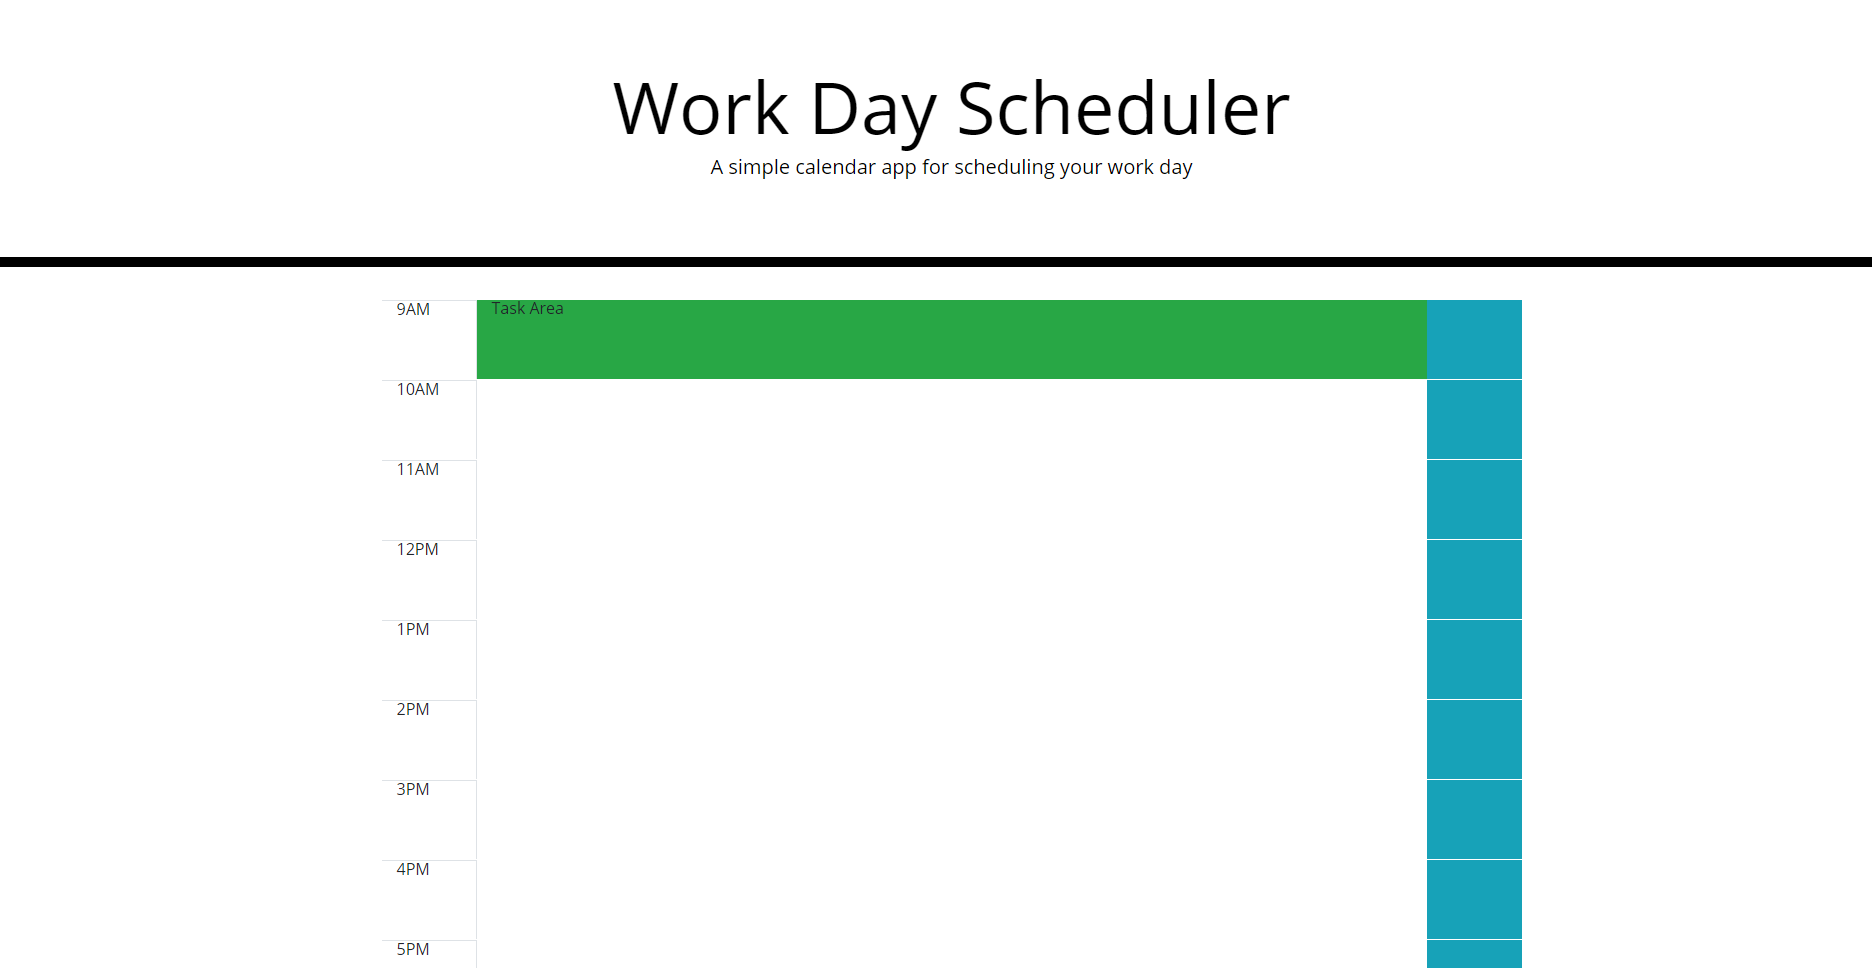
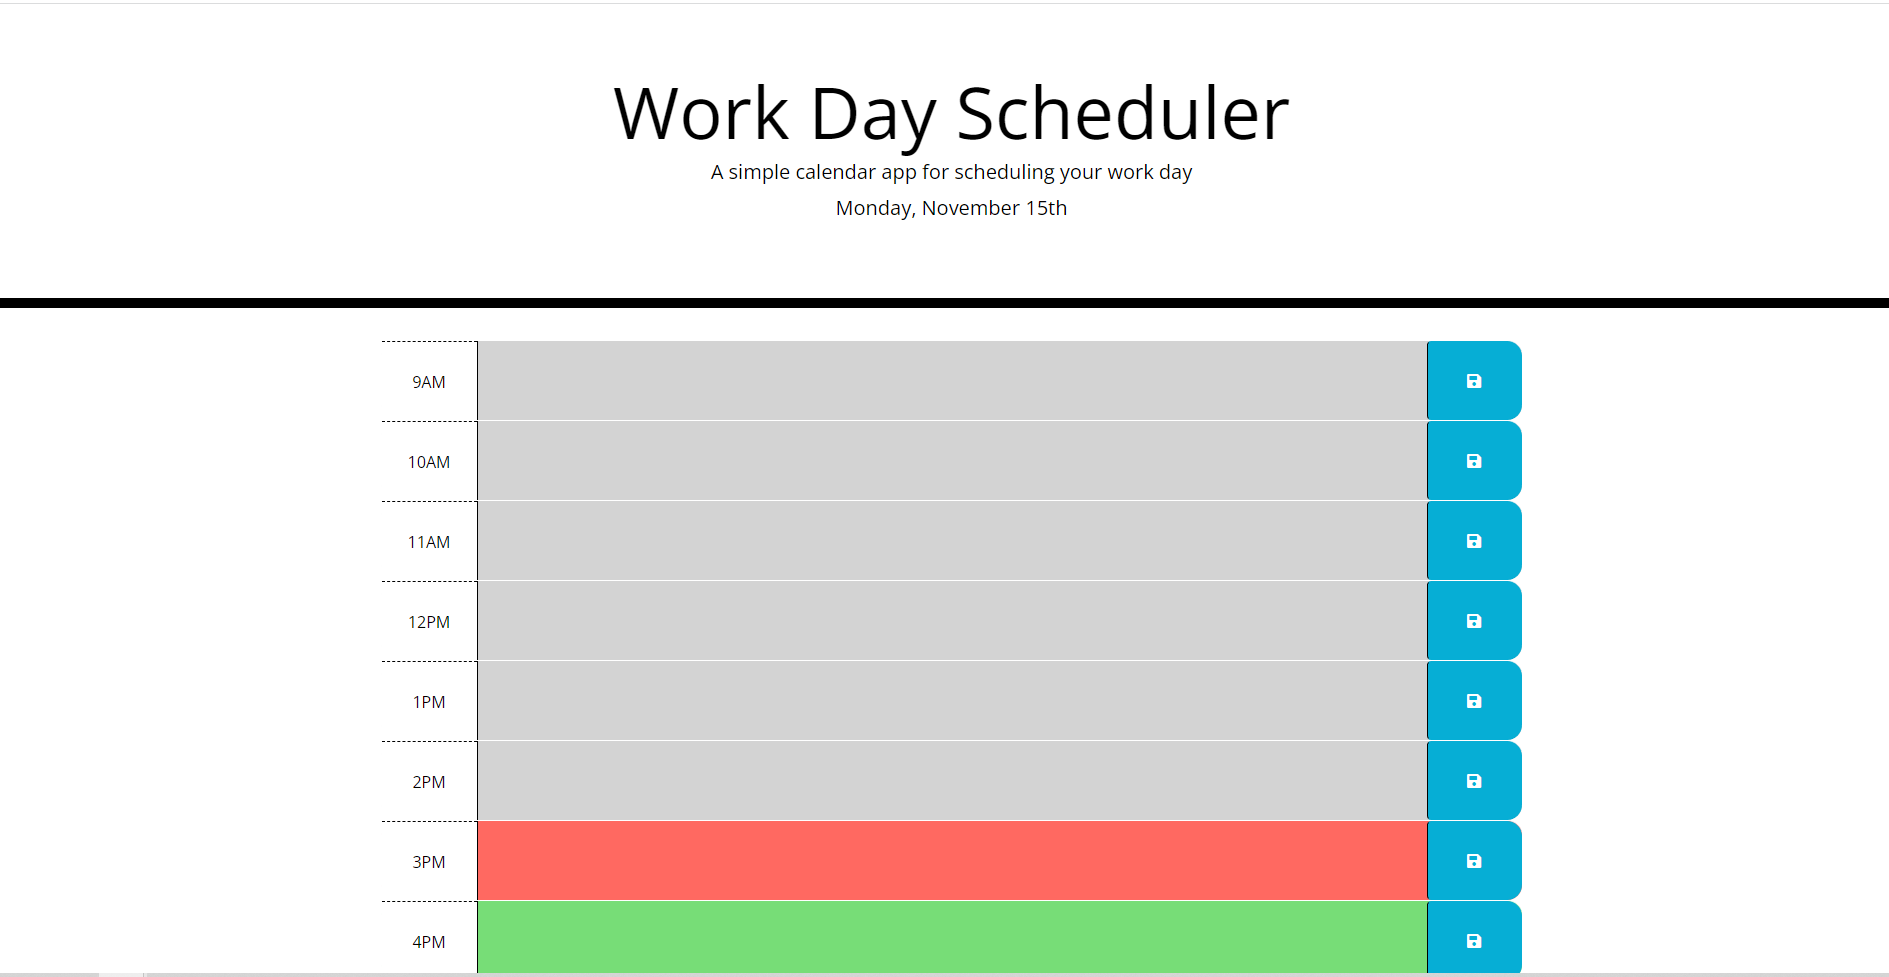
javascript

diff --git a/index.html b/index.html
@@ -31,57 +31,84 @@
     </header>
     <div class="container">
       <!-- Timeblocks go here -->
-      <div class="row">
-        <div class="col-sm-1 border-top border-right"><p>9AM</p></div>
-        <div class="col-sm-10 bg-success 9AM"><p>Task Area</p></div>
-        <div class="col-sm-1 bg-info"></div>
+      <div id="hour-9" class="row time-block">
+        <div class="col-md-1 hour">
+          9AM
+        </div>
+        <textarea class="col-md-10 description">
+        </textarea>
+        <button class="btn saveBtn col-md-1"><i class="fas fa-save"></i></button>
       </div>
-      <div class="row">
-        <div class="col-sm-1 border-top border-right"><p>10AM</p></div>
-        <div class="col-sm-10 10AM"><p></p></div>
-        <div class="col-sm-1 bg-info"></div>
+      <div id="hour-10" class="row time-block">
+        <div class="col-md-1 hour">
+          10AM
+        </div>
+        <textarea class="col-md-10 description">
+        </textarea>
+        <button class="btn saveBtn col-md-1"><i class="fas fa-save"></i></button>
       </div>
-      <div class="row">
-        <div class="col-sm-1 border-top border-right"><p>11AM</p></div>
-        <div class="col-sm-10 11AM"><p></p></div>
-        <div class="col-sm-1 bg-info"></div>
+      <div id="hour-11" class="row time-block">
+        <div class="col-md-1 hour">
+          11AM
+        </div>
+        <textarea class="col-md-10 description">
+        </textarea>
+        <button class="btn saveBtn col-md-1"><i class="fas fa-save"></i></button>
       </div>
-      <div class="row">
-        <div class="col-sm-1 border-top border-right"><p>12PM</p></div>
-        <div class="col-sm-10 12PM"><p></p></div>
-        <div class="col-sm-1 bg-info"></div>
+      <div id="hour-12" class="row time-block">
+        <div class="col-md-1 hour">
+          12PM
+        </div>
+        <textarea class="col-md-10 description">
+        </textarea>
+        <button class="btn saveBtn col-md-1"><i class="fas fa-save"></i></button>
       </div>
-      <div class="row">
-        <div class="col-sm-1 border-top border-right"><p>1PM</p></div>
-        <div class="col-sm-10 1PM"><p></p></div>
-        <div class="col-sm-1 bg-info"></div>
+     <div id="hour-13" class="row time-block">
+        <div class="col-md-1 hour">
+          1PM
+        </div>
+        <textarea class="col-md-10 description">
+        </textarea>
+        <button class="btn saveBtn col-md-1"><i class="fas fa-save"></i></button>
       </div>
-      <div class="row">
-        <div class="col-sm-1 border-top border-right"><p>2PM</p></div>
-        <div class="col-sm-10 2PM"><p></p></div>
-        <div class="col-sm-1 bg-info"></div>
+      <div id="hour-14" class="row time-block">
+        <div class="col-md-1 hour">
+          2PM
+        </div>
+        <textarea class="col-md-10 description">
+        </textarea>
+        <button class="btn saveBtn col-md-1"><i class="fas fa-save"></i></button>
       </div>
-      <div class="row">
-        <div class="col-sm-1 border-top border-right"><p>3PM</p></div>
-        <div class="col-sm-10 3PM"><p></p></div>
-        <div class="col-sm-1 bg-info"></div>
+      <div id="hour-15" class="row time-block">
+       <div class="col-md-1 hour">
+          3PM
+        </div>
+        <textarea class="col-md-10 description">
+        </textarea>
+        <button class="btn saveBtn col-md-1"><i class="fas fa-save"></i></button>
       </div>
-      <div class="row">
-        <div class="col-sm-1 border-top border-right"><p>4PM</p></div>
-        <div class="col-sm-10 4PM"><p></p></div>
-        <div class="col-sm-1 bg-info"></div>
+      <div id="hour-16" class="row time-block">
+        <div class="col-md-1 hour">
+          4PM
+        </div>
+        <textarea class="col-md-10 description">
+        </textarea>
+        <button class="btn saveBtn col-md-1"><i class="fas fa-save"></i></button>
       </div>
-      <div class="row">
-        <div class="col-sm-1 border-top border-right"><p>5PM</p></div>
-        <div class="col-sm-10 5PM"><p></p></div>
-        <div class="col-sm-1 bg-info"></div>
+      <div id="hour-17" class="row time-block">
+        <div class="col-md-1 hour">
+          5PM
+        </div>
+        <textarea class="col-md-10 description">
+        </textarea>
+        <button class="btn saveBtn col-md-1"><i class="fas fa-save"></i></button>
       </div>
-    </div>
 
     <script src="https://code.jquery.com/jquery-3.4.1.min.js"></script>
     <script src="https://cdnjs.cloudflare.com/ajax/libs/moment.js/2.24.0/moment.min.js"></script>
     <script src="https://cdnjs.cloudflare.com/ajax/libs/jqueryui/1.12.1/jquery-ui.min.js"></script>
     <script src="https://cdnjs.cloudflare.com/ajax/libs/jqueryui-touch-punch/0.2.3/jquery.ui.touch-punch.min.js"></script>
     <script src="https://cdnjs.cloudflare.com/ajax/libs/popper.js/1.15.0/umd/popper.min.js"></script>
+    <script src="script.js"></script>
   </body>
 </html>

diff --git a/script.js b/script.js
@@ -1,0 +1,57 @@
+$(document).ready(function() {
+    $('.saveBtn').on('click', function() {
+      var value = $(this)
+        .siblings('.description')
+        .val();
+      var time = $(this)
+        .parent()
+        .attr('id');
+      localStorage.setItem(time, value);
+  
+      $('.notification').addClass('show');
+  
+      setTimeout(function() {
+        $('.notification').removeClass('show');
+      }, 5000);
+    });
+  
+    function hourUpdater() {
+      var currentHour = moment().hours();
+  
+      $('.time-block').each(function() {
+        var blockHour = parseInt(
+          $(this)
+            .attr('id')
+            .split('-')[1]
+        );
+  
+        if (blockHour < currentHour) {
+          $(this).addClass('past');
+        } else if (blockHour === currentHour) {
+          $(this).removeClass('past');
+          $(this).addClass('present');
+        } else {
+          $(this).removeClass('past');
+          $(this).removeClass('present');
+          $(this).addClass('future');
+        }
+      });
+    }
+  
+    hourUpdater();
+  
+    var interval = setInterval(hourUpdater, 15000);
+
+    $('#hour-9 .description').val(localStorage.getItem('hour-9'));
+    $('#hour-10 .description').val(localStorage.getItem('hour-10'));
+    $('#hour-11 .description').val(localStorage.getItem('hour-11'));
+    $('#hour-12 .description').val(localStorage.getItem('hour-12'));
+    $('#hour-13 .description').val(localStorage.getItem('hour-13'));
+    $('#hour-14 .description').val(localStorage.getItem('hour-14'));
+    $('#hour-15 .description').val(localStorage.getItem('hour-15'));
+    $('#hour-16 .description').val(localStorage.getItem('hour-16'));
+    $('#hour-17 .description').val(localStorage.getItem('hour-17'));
+  
+    $('#currentDay').text(moment().format('dddd, MMMM Do'));
+  });
+  

diff --git a/style.css b/style.css
@@ -4,7 +4,7 @@ body {
   line-height: 1;
 }
 
-textarea{
+textarea {
   background: transparent;
   border: none;
   resize: none;
@@ -21,11 +21,11 @@ textarea{
   border-bottom: 10px solid black;
 }
 
-.description{
+.description {
   white-space: pre-wrap;
 }
 
-.time-block{
+.time-block {
   text-align: center;
   border-radius: 15px;
 }
@@ -33,7 +33,7 @@ textarea{
 .row {
   white-space: pre-wrap;
   height: 80px;
-  border-top: 1px solid white;;
+  border-top: 1px solid white;
 }
 
 .hour {
@@ -61,11 +61,21 @@ textarea{
   border-left: 1px solid black;
   border-top-right-radius: 15px;
   border-bottom-right-radius: 15px;
-  background-color: #06AED5;
+  background-color: #06aed5;
   color: white;
 }
 
 .saveBtn i:hover {
   font-size: 20px;
-  transition: all .3s ease-in-out;
+  transition: all 0.3s ease-in-out;
+}
+
+.notification {
+  display: none;
+  padding-bottom: 10px;
+  color: black;
+}
+
+.show {
+  display: block;
 }

diff --git a/README.md b/README.md
@@ -1,6 +1,6 @@
 # Calender App
 
-This web page is SUPPOSED to let you save tasks and show you the time they're due...
+A web page to let you save tasks and show you the time they're due.
 
 https://ddcrane.github.io/calender-app/
 
